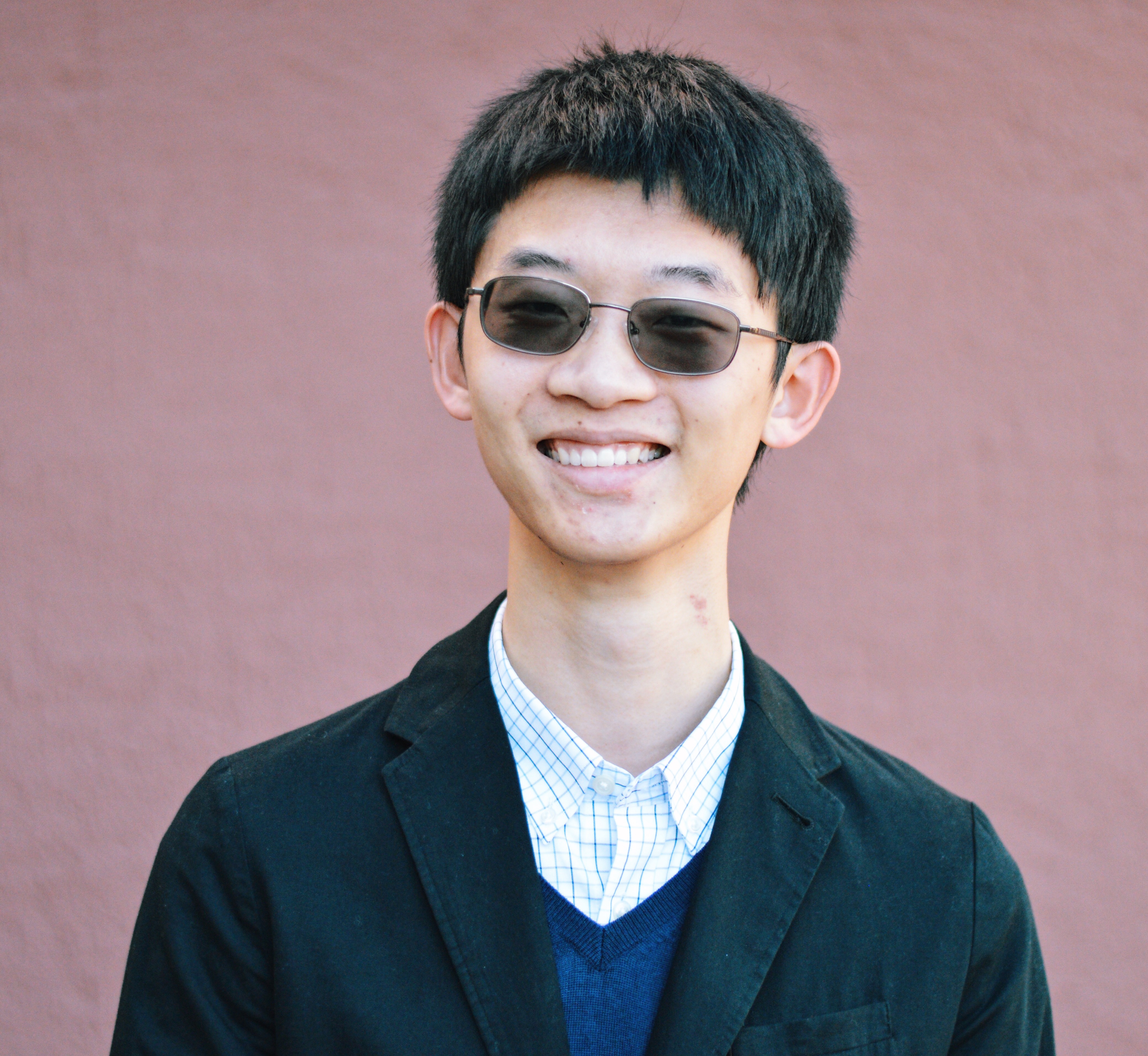
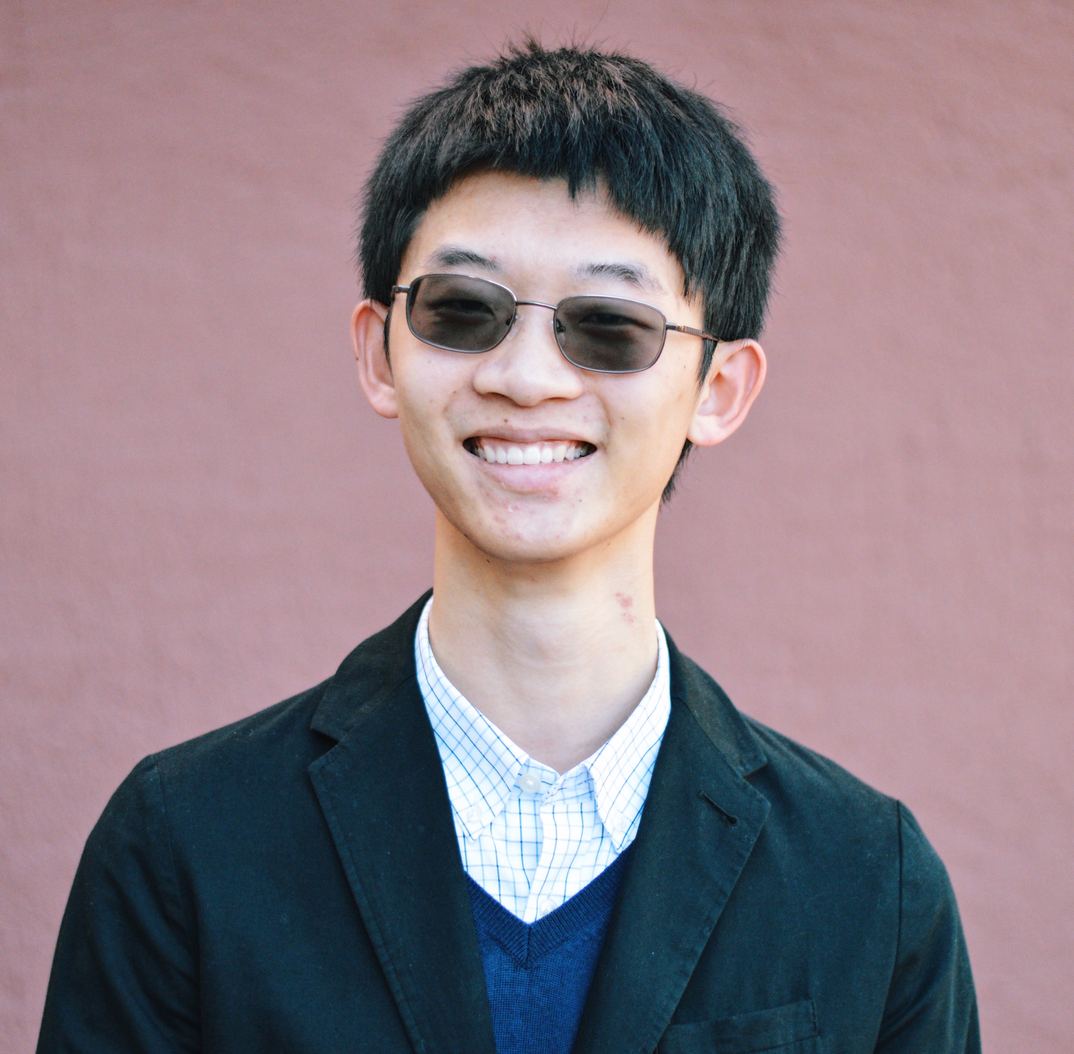
added Brian

diff --git a/app/homepage/templates/homepage.html b/app/homepage/templates/homepage.html
@@ -64,54 +64,84 @@
 
     <!-- MEMBERS -->
     <div id="members" class="container-fluid text-center bg-grey">
-      <h2>Group Members</h2>
-        <div class="row text-center">
-          <div class="col-sm-4">
-            <div class="thumbnail">
-              <img class="image" src="{% static "jonathan.jpg" %}" alt="Jonathan">
-              <p><strong>Jonathan Wang</strong></p>
-              <p>Jonathan Wang is a senior undergraduate student studying Computer Science and Statistics. Jonathan is the project manager of this project, maintaining the overall direction of the project.</p>
-            </div>
-          </div>
-          <div class="col-sm-4">
-            <div class="thumbnail">
-              <img class="image" src="http://i.imgur.com/4ybg2jx.jpg" alt="Brian">
-              <p><strong>Brian Lin</strong></p>
-              <p>Brian Lin is a junior undergraduate student studying Computer Science and Statistics with an interest in Economics. He is mainly interested in applying machine learning and data science to solving real life problems. </p>
-            </div>
-          </div>
-          <div class="col-sm-4">
-            <div class="thumbnail">
-              <img class="image" src="http://i.imgur.com/4ybg2jx.jpg" alt="Lavanya">
-              <p><strong>Lavanya Harinarayan</strong></p>
-              <p>Lavanya Harinarayan is a senior undergraduate student studying Computer Science. She is interested in exploring the various applications of machine learning and artificial intelligence, especially in the field of security.</p>
-            </div>
-          </div>
-        </div>
-        <div class="row text-center">
-          <div class="col-sm-4">
-            <div class="thumbnail">
-              <img class="image" src="http://i.imgur.com/4ybg2jx.jpg" alt="Jack">
-              <p><strong>Jack Ye</strong></p>
-              <p>Jack Ye is a junior undergraduate student studying Computer Science and Statistics. Apart from BIDS, he is currently working in the Berkeley ICSI multimedia team for research about music information retrieval.</p>
-            </div>
-          </div>
-          <div class="col-sm-4">
-            <div class="thumbnail">
-              <img class="image" src="{% static "justin.jpg" %}" alt="Justin">
-              <p><strong>Justin Mi</strong></p>
-              <p>Justin Mi is a freshman undergraduate student studying Electrical Engineering and Computer Sciences. Outside of BIDS, Justin is involved in Berkeley’s AUTOLAB.</p>
-            </div>
-          </div>
-          <div class="col-sm-4">
-            <div class="thumbnail">
-              <img class="image" src="http://i.imgur.com/4ybg2jx.jpg" alt="Caleb">
-              <p><strong>Caleb Siu</strong></p>
-              <p>Caleb Siu is a sophomore undergraduate student studying Computer Science and Economics. In addition, he is the Director of Finance for Society of Asian Americans and Engineers at Berkeley and part of a college ministry. </p>
-            </div>
-          </div>
-        </div>
-      </div>
+      <table class="membersTable">
+        <tbody>
+          <tr>
+            <td class="memberphoto">
+              <div class="photo">
+                <img class="image" src="{% static "jonathan.jpg" %}" alt="Jonathan">
+              </div>
+              <div class="title">
+                <p><strong>Jonathan Wang</strong></p>
+              </div>
+              <div class="bio">
+                <p>Jonathan Wang is a senior undergraduate student studying Computer Science and Statistics. Jonathan is the project manager of this project, maintaining the overall direction of the project.</p>
+              </div>
+            </td>
+            <td>
+              <div class="photo">
+                <img class="image" src="{% static "brianlin.jpg" %}" alt="Brian">
+              </div>
+              <div class="title">
+                <p><strong>Brian Lin</strong></p>
+              </div>
+              <div class="bio">
+                <p>Brian Lin is a junior undergraduate student studying Computer Science and Statistics with an interest in Economics. He is mainly interested in applying machine learning and data science to solving real life problems.</p>
+              </div>
+            </td>
+            <td>
+              <div class="photo">
+                <img class="image" src="http://i.imgur.com/4ybg2jx.jpg" alt="Brian">
+              </div>
+              <div class="title">
+                <p><strong>Lavanya Harinarayan</strong></p>
+              </div>
+              <div class="bio">
+                <p>Lavanya Harinarayan is a senior undergraduate student studying Computer Science. She is interested in exploring the various applications of machine learning and artificial intelligence, especially in the field of security.</p>
+              </div>
+            </td>
+          </tr>
+        </tbody>
+      </table>
+      <table class="membersTable">
+        <tbody>
+          <tr>
+            <td>
+              <div class="photo">
+                <img class="image" src="http://i.imgur.com/4ybg2jx.jpg" alt="Brian">
+              </div>
+              <div class="title">
+                <p><strong>Jack Ye</strong></p>
+              </div>
+              <div class="bio">
+                <p>Jack Ye is a junior undergraduate student studying Computer Science and Statistics. Apart from BIDS, he is currently working in the Berkeley ICSI multimedia team for research about music information retrieval.</p>
+            </td>
+            <td>
+              <div class="photo">
+                <img class="image" src="http://i.imgur.com/4ybg2jx.jpg" alt="Brian">
+              </div>
+              <div class="title">
+                <p><strong>Caleb Siu</strong></p>
+              </div>
+              <div class="bio">
+                <p>Caleb Siu is a sophomore undergraduate student studying Computer Science and Economics. In addition, he is the Director of Finance for Society of Asian Americans and Engineers at Berkeley and part of a college ministry. </p>
+              </div>
+            </td>
+            <td>
+              <div class="photo">
+                <img class="image" src="{% static "justin.jpg" %}" alt="Justin">
+              </div>
+              <div class="title">
+                <p><strong>Justin Mi</strong></p>
+              </div>
+              <div class="bio">
+                <p>Justin Mi is a freshman undergraduate student studying Electrical Engineering and Computer Sciences. Outside of BIDS, Justin is involved in Berkeley’s AUTOLAB.</p>
+              </div>
+            </td>
+          </tr>
+        </tbody>
+      </table>
+    </div>
 
     <!-- CONTACT -->
     <div id="contact" class="container-fluid bg-grey">

diff --git a/app/homepage/static/homepage.css b/app/homepage/static/homepage.css
@@ -1,6 +1,26 @@
+table {
+    display: table;
+    border: 1px solid;
+    border-color: black ;
+    border-spacing: 2px;
+}
+
+.bio {
+    vertical-align: bottom;
+    margin: 10px 50px 100px;
+}
+
+.memberphoto {
+    vertical-align: top;
+}
+
+.photo {
+    vertical-align: top;
+}
+
 .image {
-    height: 500px;
-    width: 75%;
+    height: 200px;
+    width: 200px;
 }
 
 .bg-grey {
@@ -24,7 +44,7 @@
 
 /* Styling for Jumbotron */
 .jumbotron {
-    background-image: url("plants.jpg") !important;
+    background-image: url("ecosystem.jpg") !important;
     background-size: cover;
     color: #ffffff  !important;
     padding: 100px 25px !important;
